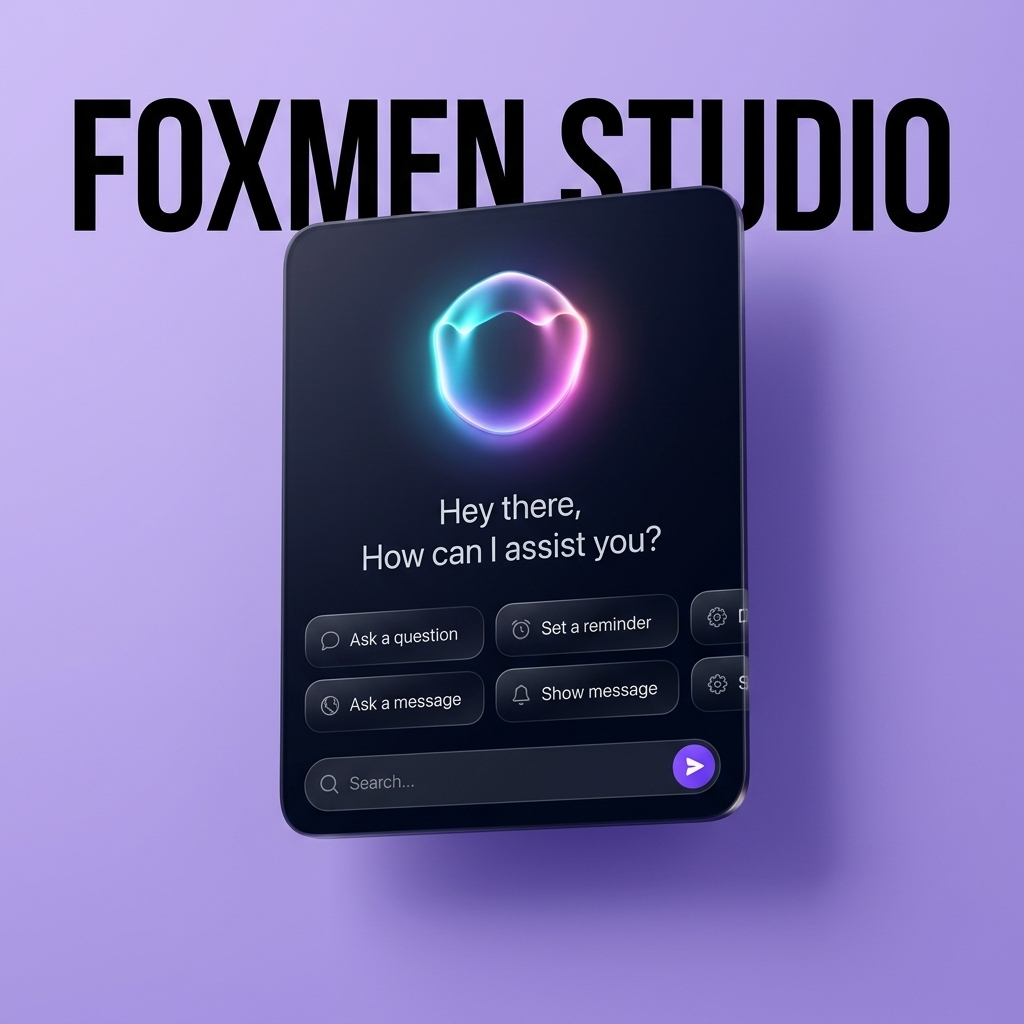
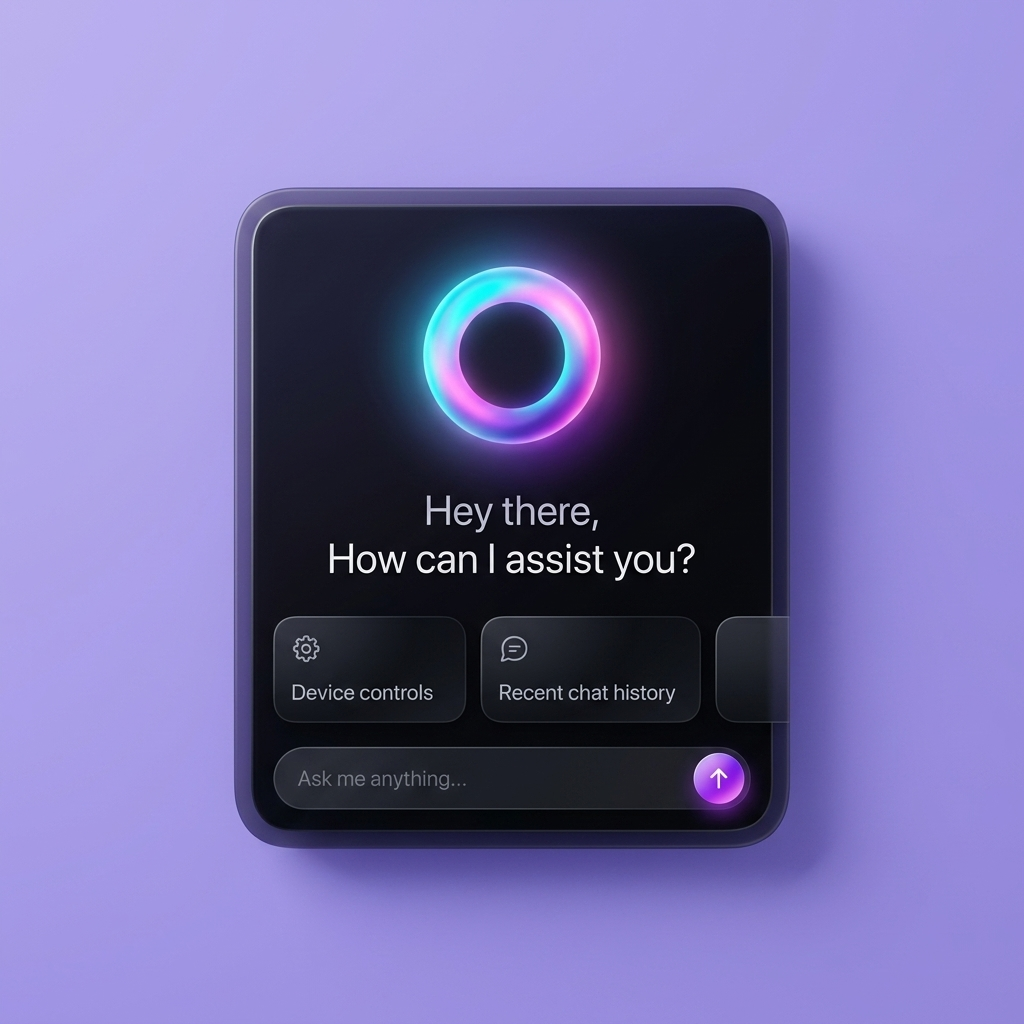
feat: integrate interactive VisualAI component and add new service showcase assets

Changed region(s): [[0.0625, 0.0938, 0.9375, 0.9062]]

diff --git a/app/services/ServicesClient.tsx b/app/services/ServicesClient.tsx
@@ -319,7 +319,7 @@ function VisualMobile({ a }: { a:string }) {
   );
 }
 
-function VisualAI({ a }: { a?:string }) {
+export function VisualAI({ a }: { a?:string }) {
   return (
     <div style={{
       width: "100%", height: "100%", background: "#06060c",
@@ -337,41 +337,57 @@ function VisualAI({ a }: { a?:string }) {
       }} />
 
       {/* ── Top: 60 FPS Glowing Orb Ring ── */}
-      <div style={{ position: "relative", width: 120, height: 120, display: "grid", placeItems: "center", marginTop: 6, flexShrink: 0 }}>
-        {/* Outer glowing aura */}
+      <div style={{ position: "relative", width: 130, height: 130, display: "grid", placeItems: "center", marginTop: 4, flexShrink: 0 }}>
+        {/* Outer ambient glow */}
         <div style={{
           position: "absolute", inset: 0, borderRadius: "50%",
-          background: "conic-gradient(from 0deg, #ff2a85, #7928ca, #00f2fe, #ff2a85)",
-          filter: "blur(16px)", opacity: 0.75,
-          animation: "aiSpin 6s linear infinite",
+          background: "radial-gradient(circle, rgba(0,242,254,0.45) 0%, rgba(255,42,133,0.35) 50%, transparent 70%)",
+          filter: "blur(20px)",
+          animation: "aiPulse 3s ease-in-out infinite alternate",
         }} />
 
-        {/* Ring 1 - Base glowing Ribbon */}
+        {/* Morphing wrapper for organic torus breathing */}
         <div style={{
-          position: "absolute", inset: 4, borderRadius: "50%",
-          padding: 3.5, background: "conic-gradient(from 0deg, #ff2a85, #9333ea, #38bdf8, #f43f5e, #ff2a85)",
-          WebkitMask: "linear-gradient(#fff 0 0) content-box, linear-gradient(#fff 0 0)",
-          WebkitMaskComposite: "xor", maskComposite: "exclude",
-          animation: "aiSpin 4.5s linear infinite",
-        }} />
+          position: "absolute", inset: 6,
+          animation: "aiMorph 3.5s ease-in-out infinite alternate",
+          transformOrigin: "center center",
+        }}>
+          {/* Ring 1 - Forward spinning aurora ribbon */}
+          <div style={{
+            position: "absolute", inset: 0, borderRadius: "50%",
+            padding: 3.5, background: "conic-gradient(from 0deg, #ff2a85, #7928ca, #00f2fe, #ff2a85)",
+            WebkitMask: "linear-gradient(#fff 0 0) content-box, linear-gradient(#fff 0 0)",
+            WebkitMaskComposite: "xor", maskComposite: "exclude",
+            animation: "aiSpin 4s linear infinite",
+            filter: "drop-shadow(0 0 8px rgba(0,242,254,0.6))",
+          }} />
+        </div>
 
-        {/* Ring 2 - Reverse morphing Ribbon for 3D Torus effect */}
+        {/* Counter-rotating wrapper */}
         <div style={{
-          position: "absolute", inset: 8, borderRadius: "46%",
-          padding: 2.5, background: "conic-gradient(from 180deg, #38bdf8, #818cf8, #c084fc, #f43f5e, #38bdf8)",
-          WebkitMask: "linear-gradient(#fff 0 0) content-box, linear-gradient(#fff 0 0)",
-          WebkitMaskComposite: "xor", maskComposite: "exclude",
-          animation: "aiSpinReverse 7s linear infinite, aiMorph 3s ease-in-out infinite alternate",
-        }} />
+          position: "absolute", inset: 10,
+          animation: "aiMorphReverse 4s ease-in-out infinite alternate",
+          transformOrigin: "center center",
+        }}>
+          {/* Ring 2 - Reverse spinning purple/cyan ribbon */}
+          <div style={{
+            position: "absolute", inset: 0, borderRadius: "48%",
+            padding: 2.5, background: "conic-gradient(from 180deg, #00f2fe, #a855f7, #f43f5e, #00f2fe)",
+            WebkitMask: "linear-gradient(#fff 0 0) content-box, linear-gradient(#fff 0 0)",
+            WebkitMaskComposite: "xor", maskComposite: "exclude",
+            animation: "aiSpinReverse 6s linear infinite",
+            opacity: 0.85,
+          }} />
+        </div>
 
-        {/* Ring 3 - Inner core highlight */}
+        {/* Core highlight ring */}
         <div style={{
-          position: "absolute", inset: 16, borderRadius: "52%",
-          padding: 2, background: "conic-gradient(from 90deg, #fff, rgba(255,255,255,0), #38bdf8, rgba(255,255,255,0), #fff)",
+          position: "absolute", inset: 18, borderRadius: "50%",
+          padding: 2, background: "conic-gradient(from 90deg, #fff, rgba(255,255,255,0), #60a5fa, rgba(255,255,255,0), #fff)",
           WebkitMask: "linear-gradient(#fff 0 0) content-box, linear-gradient(#fff 0 0)",
           WebkitMaskComposite: "xor", maskComposite: "exclude",
-          animation: "aiSpin 3s linear infinite",
-          opacity: 0.85,
+          animation: "aiSpin 2.5s linear infinite",
+          opacity: 0.9,
         }} />
       </div>
 
@@ -432,21 +448,24 @@ function VisualAI({ a }: { a?:string }) {
       {/* Embedded 60 FPS hardware accelerated keyframes */}
       <style>{`
         @keyframes aiSpin {
-          0% { transform: rotate(0deg); }
-          100% { transform: rotate(360deg); }
+          0% { transform: rotate(0deg) translateZ(0); }
+          100% { transform: rotate(360deg) translateZ(0); }
         }
         @keyframes aiSpinReverse {
-          0% { transform: rotate(360deg); }
-          100% { transform: rotate(0deg); }
+          0% { transform: rotate(360deg) translateZ(0); }
+          100% { transform: rotate(0deg) translateZ(0); }
         }
         @keyframes aiMorph {
-          0% { transform: rotate(0deg) scale(1) skew(0deg); }
-          50% { transform: rotate(180deg) scaleX(1.08) scaleY(0.94) skew(3deg); }
-          100% { transform: rotate(360deg) scale(1) skew(0deg); }
+          0% { transform: scale(0.96, 1.04) skew(-3deg, 2deg) translateZ(0); }
+          100% { transform: scale(1.05, 0.95) skew(3deg, -2deg) translateZ(0); }
+        }
+        @keyframes aiMorphReverse {
+          0% { transform: scale(1.04, 0.96) skew(2deg, -3deg) translateZ(0); }
+          100% { transform: scale(0.95, 1.05) skew(-2deg, 3deg) translateZ(0); }
         }
         @keyframes aiPulse {
-          0% { transform: translate(-50%, -50%) scale(0.95); opacity: 0.6; }
-          100% { transform: translate(-50%, -50%) scale(1.1); opacity: 0.95; }
+          0% { transform: scale(0.9) translateZ(0); opacity: 0.5; }
+          100% { transform: scale(1.15) translateZ(0); opacity: 0.95; }
         }
       `}</style>
     </div>
@@ -565,6 +584,7 @@ function getShowcaseImage(name: string, idx?: number): string | null {
   const n = name.toLowerCase();
   if (idx === 0 || n.includes("web") || n.includes("design")) return "/assets/hero-showcase.png";
   if (idx === 1 || n.includes("ios") || n.includes("android") || n.includes("cross")) return "/assets/ios-showcase.png";
+  if (idx === 3 || n.includes("ecom") || n.includes("commerce") || n.includes("vendor") || n.includes("shop")) return "/assets/ecom-showcase.png";
   return null;
 }
 
@@ -906,7 +926,9 @@ function ServiceSection({ service, index, onDetail, onStart }: {
           aspectRatio:"4/3",
           position:"relative",
         }}>
-          {getShowcaseImage(service.name, index) || service.image ? (
+          {index === 2 || service.name.toLowerCase().includes("ai") || service.name.toLowerCase().includes("artificial") ? (
+            <VisualAI />
+          ) : getShowcaseImage(service.name, index) || service.image ? (
             <img
               src={getShowcaseImage(service.name, index) || service.image!}
               alt={service.name}

diff --git a/app/HomeClient.tsx b/app/HomeClient.tsx
@@ -4,6 +4,7 @@ import { useCallback, useEffect, useMemo, useRef, useState } from "react";
 import { useRouter } from "next/navigation";
 import { useScrollReveal } from "@/hooks/useScrollReveal";
 import ProjectEstimator from "@/app/components/ProjectEstimator";
+import { VisualAI } from "@/app/services/ServicesClient";
 import dynamic from "next/dynamic";
 const WorldMapDecoration = dynamic(
   () => import("@/app/components/WorldMapLeaflet"),
@@ -1452,9 +1453,9 @@ export default function HomeClient({
                   desc: s.descr,
                   tags: s.count,
                   preview: s.badge || s.name.split(" ")[0],
-                  image: s.image || (i === 0 || s.name.toLowerCase().includes("web") ? "/assets/hero-showcase.png" : (i === 1 || s.name.toLowerCase().includes("ios") || s.name.toLowerCase().includes("android") ? "/assets/ios-showcase.png" : (i === 2 || s.name.toLowerCase().includes("ai") ? "/assets/ai-showcase.png" : null))),
+                  image: s.image || (i === 0 || s.name.toLowerCase().includes("web") ? "/assets/hero-showcase.png" : (i === 1 || s.name.toLowerCase().includes("ios") || s.name.toLowerCase().includes("android") ? "/assets/ios-showcase.png" : (i === 3 || s.name.toLowerCase().includes("ecom") ? "/assets/ecom-showcase.png" : null))),
                 }))
-              : svcRows.map((s, i) => ({ ...s, image: (i === 0 ? "/assets/hero-showcase.png" : (i === 1 ? "/assets/ios-showcase.png" : (i === 2 ? "/assets/ai-showcase.png" : null))) as string | null }))
+              : svcRows.map((s, i) => ({ ...s, image: (i === 0 ? "/assets/hero-showcase.png" : (i === 1 ? "/assets/ios-showcase.png" : (i === 3 ? "/assets/ecom-showcase.png" : null))) as string | null }))
             ).map((s, i) => (
               <Link className="svc-row" href="/services" key={i}>
                 <span className="idx">{s.idx}</span>
@@ -1463,9 +1464,17 @@ export default function HomeClient({
                 <span className="tags">{s.tags}</span>
                 <span className="arrow"><SmArrow /></span>
                 <span className="preview">
-                  {s.image
-                    ? <img src={s.image} alt={s.title} style={{width:"100%",height:"100%",objectFit:"cover",borderRadius:15,display:"block"}} />
-                    : s.preview}
+                  {i === 2 || s.title.toLowerCase().includes("ai") ? (
+                    <div style={{ width: "100%", height: "100%", borderRadius: 15, overflow: "hidden", position: "relative", background: "#06060c", pointerEvents: "none" }}>
+                      <div style={{ position: "absolute", inset: 0, transform: "scale(0.85)", transformOrigin: "center center" }}>
+                        <VisualAI />
+                      </div>
+                    </div>
+                  ) : s.image ? (
+                    <img src={s.image} alt={s.title} style={{width:"100%",height:"100%",objectFit:"cover",borderRadius:15,display:"block"}} />
+                  ) : (
+                    s.preview
+                  )}
                 </span>
               </Link>
             ))}